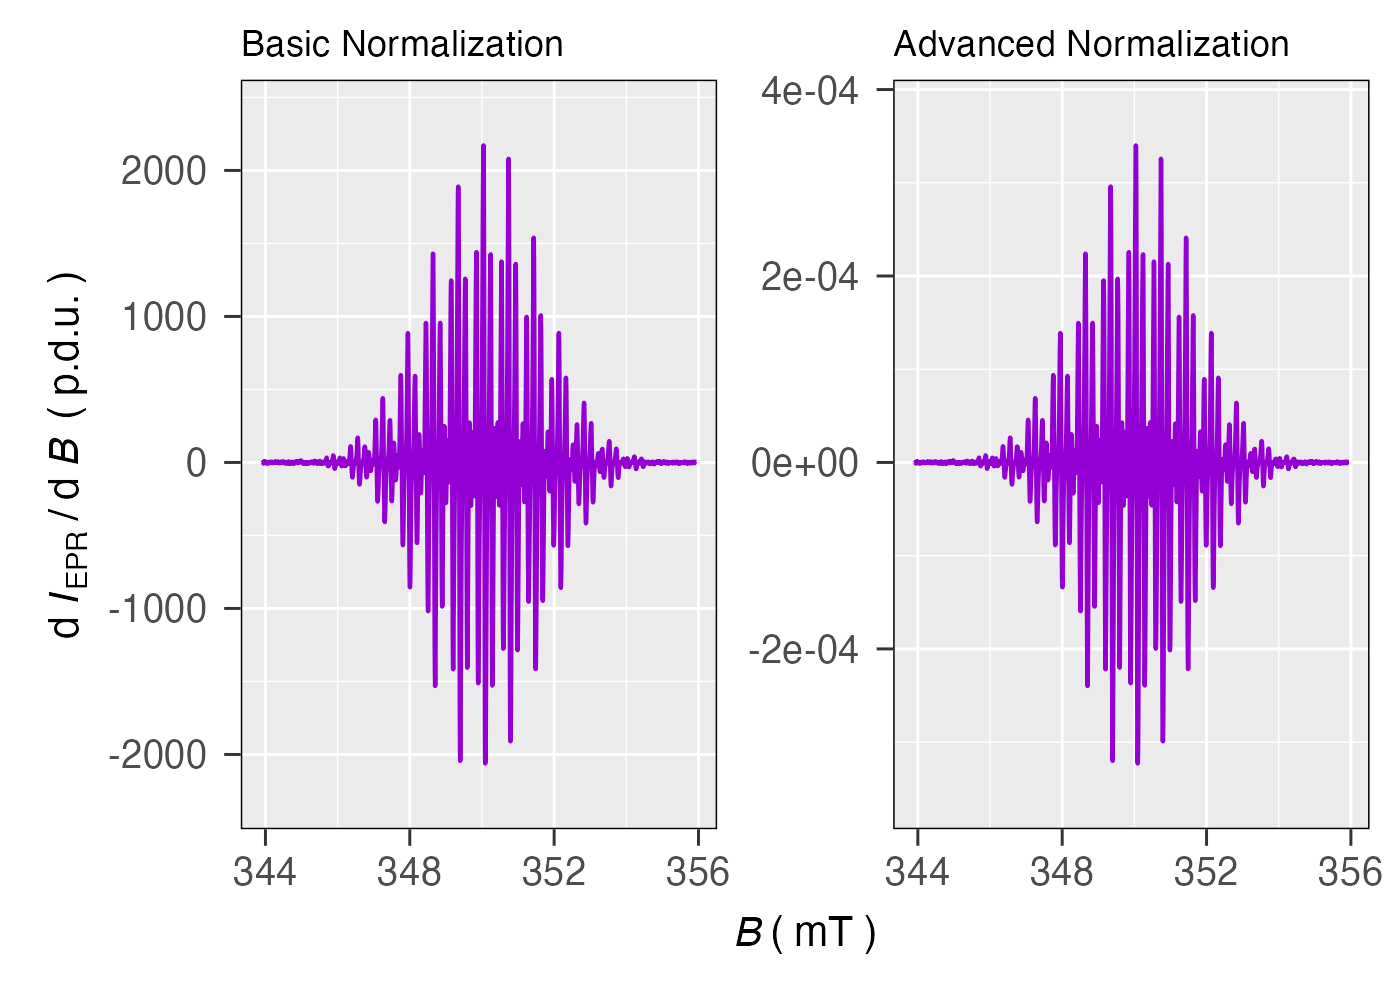
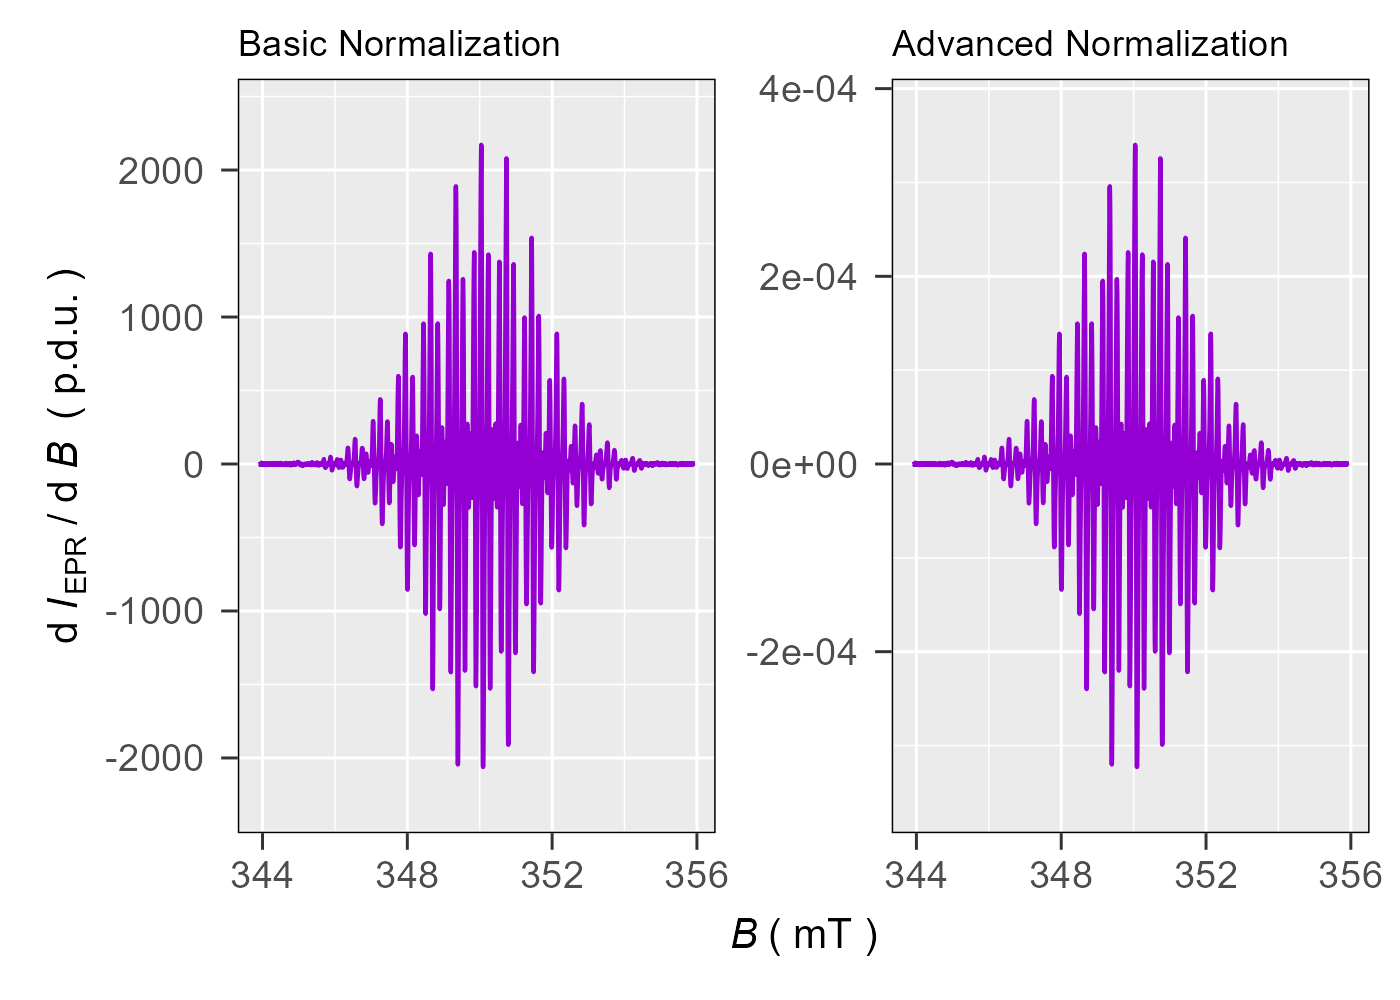
documentation updates

diff --git a/README.md b/README.md
@@ -100,7 +100,7 @@ is required** and summarized into the following steps:
     installation either available at [Posit
     Cloud](https://docs.posit.co/cloud/get_started/) or at [CoCalc
     (Collaborative Calculation and Data
-    Science)](https://cocalc.com/features). Any other
+    Science)](https://cocalc.ai/features). Any other
     <img src="https://www.r-project.org/Rlogo.png" width="16" height="16" />
     compatible environment like [VS
     Code](https://code.visualstudio.com/) or